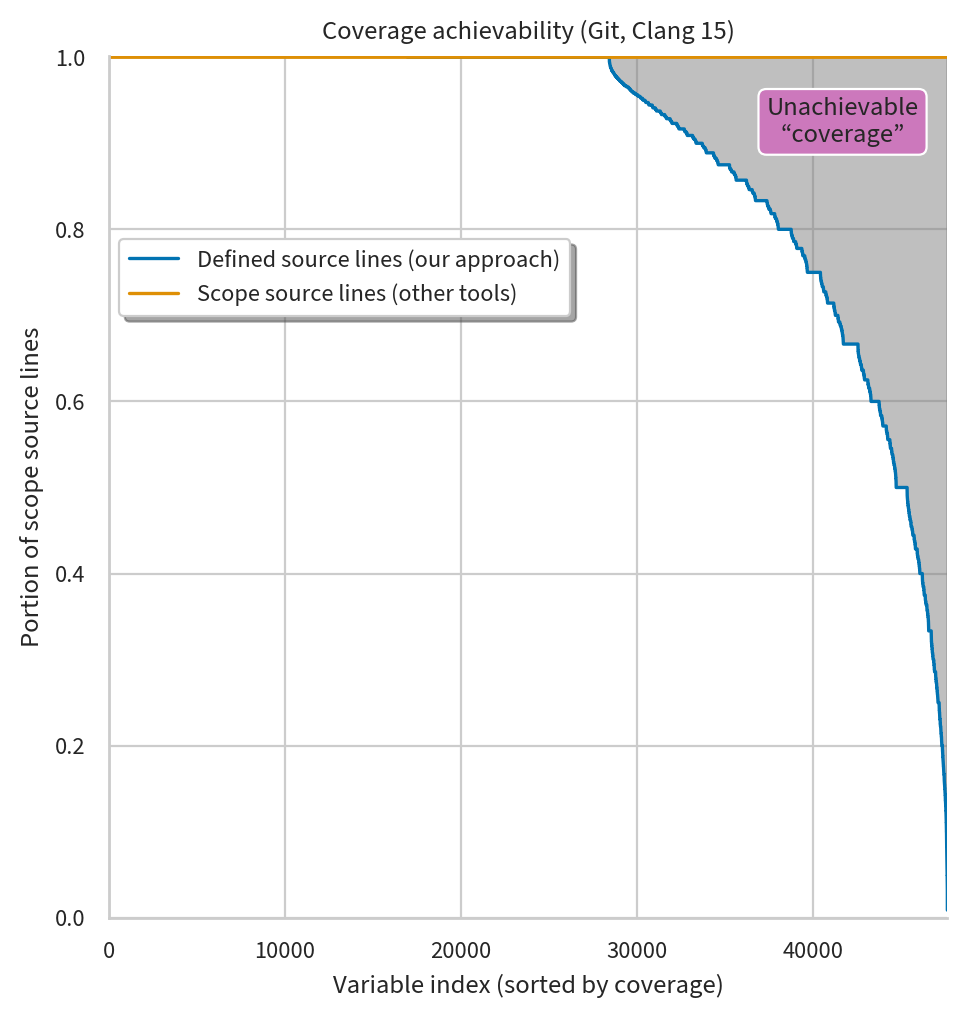
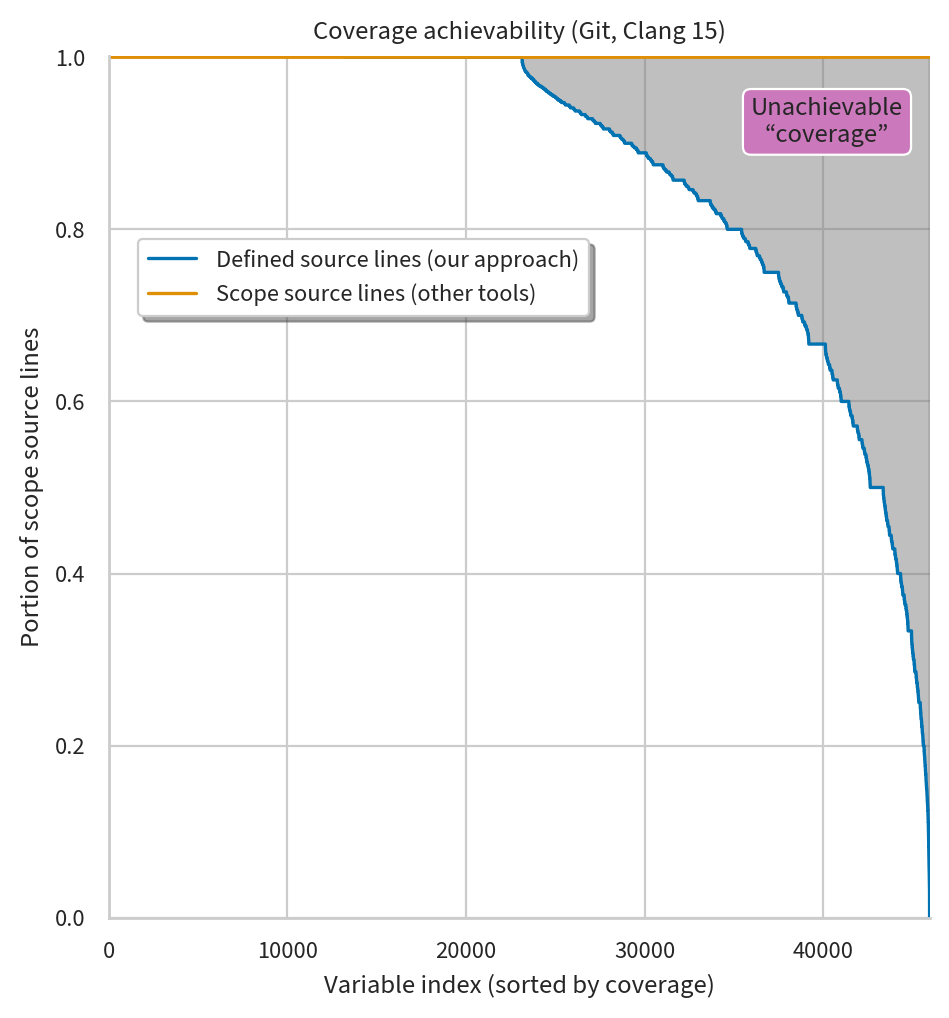
Update figures

diff --git a/data/shared/package_plots.py b/data/shared/package_plots.py
@@ -415,7 +415,7 @@ def coverage_achievability(df):
   sns.move_legend(
     g,
     "upper left",
-    bbox_to_anchor=(0.1, 0.8),
+    bbox_to_anchor=(0.125, 0.8),
     frameon=True,
     shadow=True,
     title=None,
